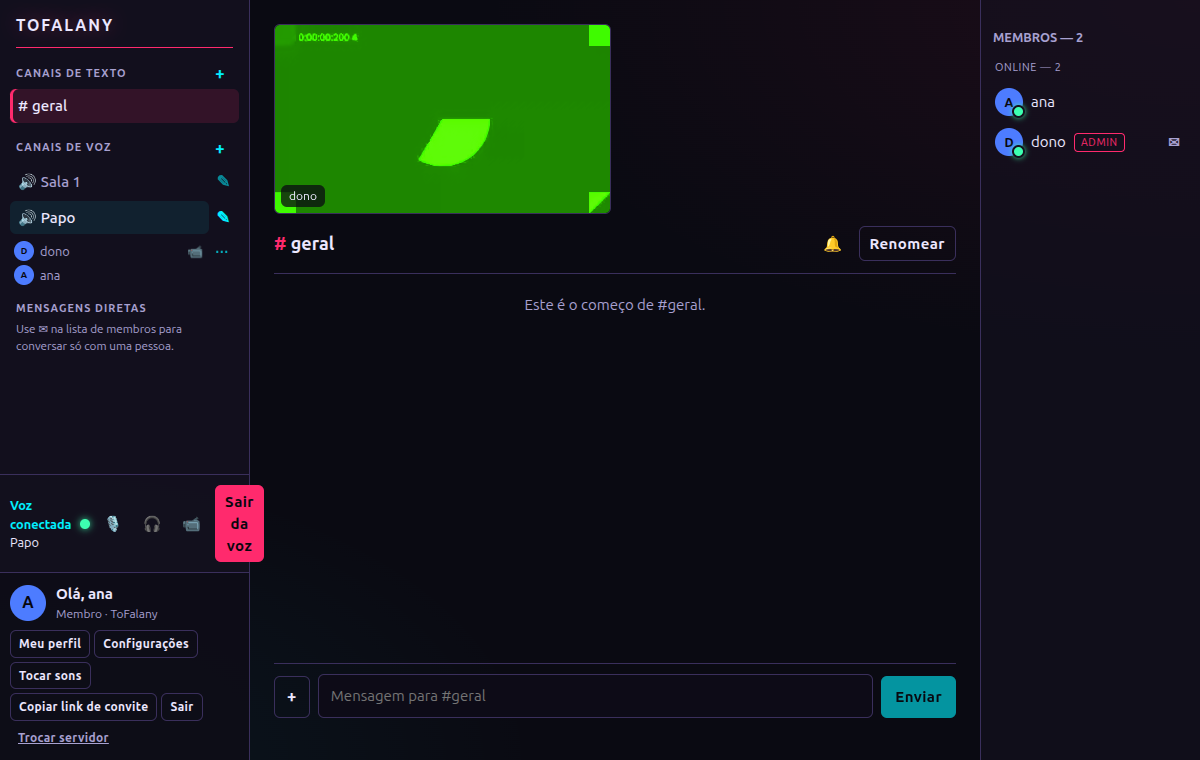
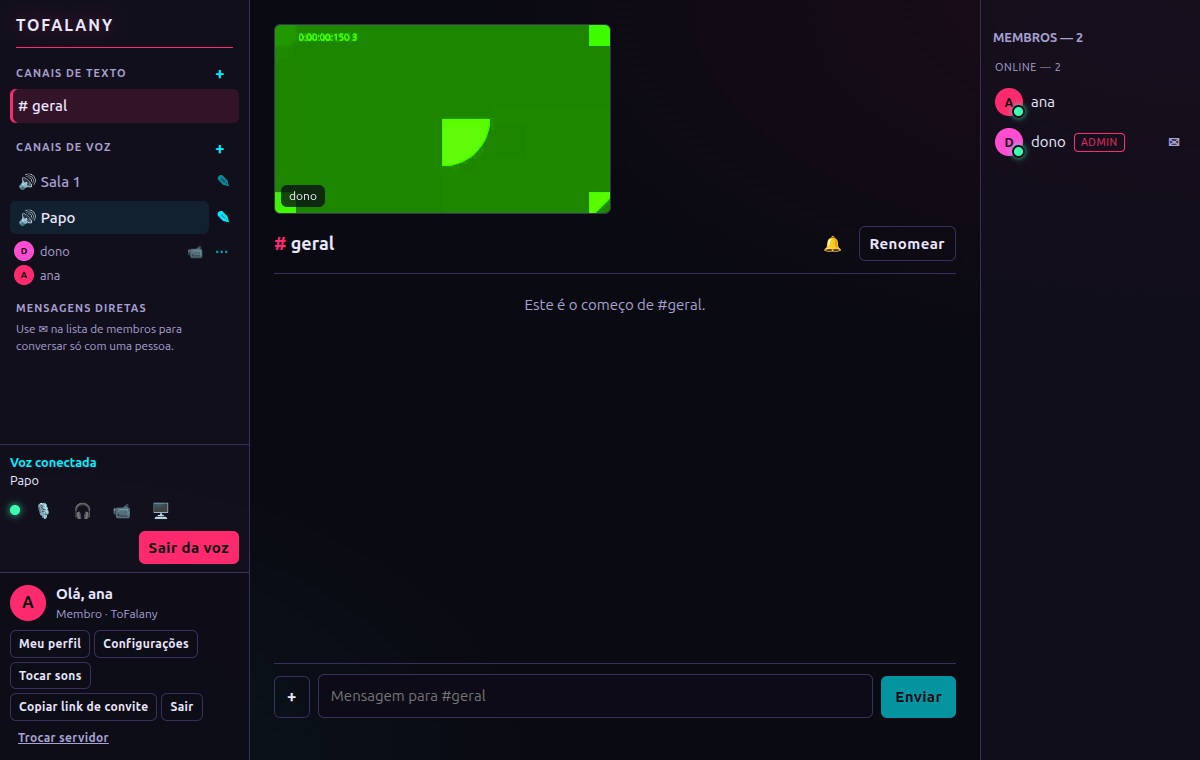
docs(T21): card, prints e marcação na fila

diff --git a/docs/demandas/to-falando-v1/cards/T21.html b/docs/demandas/to-falando-v1/cards/T21.html
@@ -1,0 +1,27 @@
+<!-- T21 — Transmissão de tela com trava por canal -->
+<h3>Origem</h3>
+<p>Demanda to-falando-v1: RF-26, RF-27, RF-30, RN-10 e a parte de transmissão do CA-49; CA-37, CA-38, CA-41. RF-28 (qualidades por cargo) e RF-29 completo ficam na T22.</p>
+<h3>Padrão</h3>
+<p>Técnica §3 (tela:pedir/tela:parar), §5 (sem simulcast, contentHint "motion") e R-5.</p>
+
+<h3>Implementação (05/11/2026, commit ec605dd)</h3>
+<ul>
+  <li><b>Servidor</b> (<code>realtime/tela.ts</code>): só quem está no canal pede; uma transmissão por canal ("dono já está transmitindo neste canal."); liberada ao parar, ao sair da voz por qualquer motivo ou quando outro computador da pessoa assume; <code>tela:iniciada/parada</code> para todos; <code>ola.transmissoes</code>; auditoria tela_iniciou/tela_parou (com motivo).</li>
+  <li><b>Processo principal</b> (<code>main/captura.ts</code>): miniaturas de telas e janelas; a captura só entrega a fonte que o seletor mostrou, escolhida pela mesma janela há menos de 15 s; nenhum outro getDisplayMedia captura nada; áudio do sistema (loopback) só no Windows.</li>
+  <li><b>App</b>: botão 🖥 no painel de voz; aviso antes do seletor se alguém já transmite; seletor modal com foco inicial, Tab preso, Esc e foco devolvido; trava antes da captura e liberada em qualquer falha; botão travado enquanto começa (parar no meio cancela a captura); "Você está transmitindo — Parar transmissão"; para os outros, "X está transmitindo" com "Assistir" → grande com "Tela cheia"; 🖥 na lista de quem está na voz; na reconexão a trava acompanha a transmissão real.</li>
+  <li><b>Correção de layout</b>: com os botões novos, "Sair da voz" saía da barra lateral; o painel de voz agora quebra a linha.</li>
+</ul>
+
+<h3>Testes</h3>
+<p><code>server/test/tela.test.ts</code> (trava, outro canal, sair da voz, outro computador, auditoria), <code>main/captura.test.ts</code>, <code>voz.test.ts</code>, <code>transmissao.test.tsx</code>, <code>loja.test.ts</code>; E2E <code>e2e/voz.spec.ts</code> (CA-37/38/41/49). Suíte: 343 testes e 27 E2E passando; lint e build verdes.</p>
+
+<h3>Validação (local, 05/11/2026)</h3>
+<table border="1" cellpadding="4">
+  <tr><th>Chamada</th><th>Status</th><th>Resultado</th></tr>
+  <tr><td>E2E CA-37: dono abre o seletor</td><td>ok</td><td>miniaturas das telas; áudio do sistema desabilitado no Linux (print T21-seletor-de-tela)</td></tr>
+  <tr><td>E2E CA-41: ana assiste</td><td>ok</td><td>vídeo grande com imagem e "Tela cheia" (print T21-ana-assiste-tela-do-dono)</td></tr>
+  <tr><td>E2E CA-38: ana tenta transmitir junto</td><td>ok</td><td>"dono já está transmitindo neste canal." e nada inicia; depois que o dono para, ela transmite</td></tr>
+  <tr><td>E2E CA-49</td><td>ok</td><td>tela_iniciou/tela_parou/tela_iniciou com quem e o canal</td></tr>
+</table>
+<p><b>A validar pelo usuário:</b> transmitir uma janela de verdade para outra máquina; tela cheia; no Windows, o seletor com as janelas abertas.</p>
+<p>Revisão: 11 achados (2 graves, 5 médios, 4 menores), todos corrigidos; o texto que citava o README sobre o áudio no Linux foi trocado por uma explicação direta (o README vem na T26).</p>
